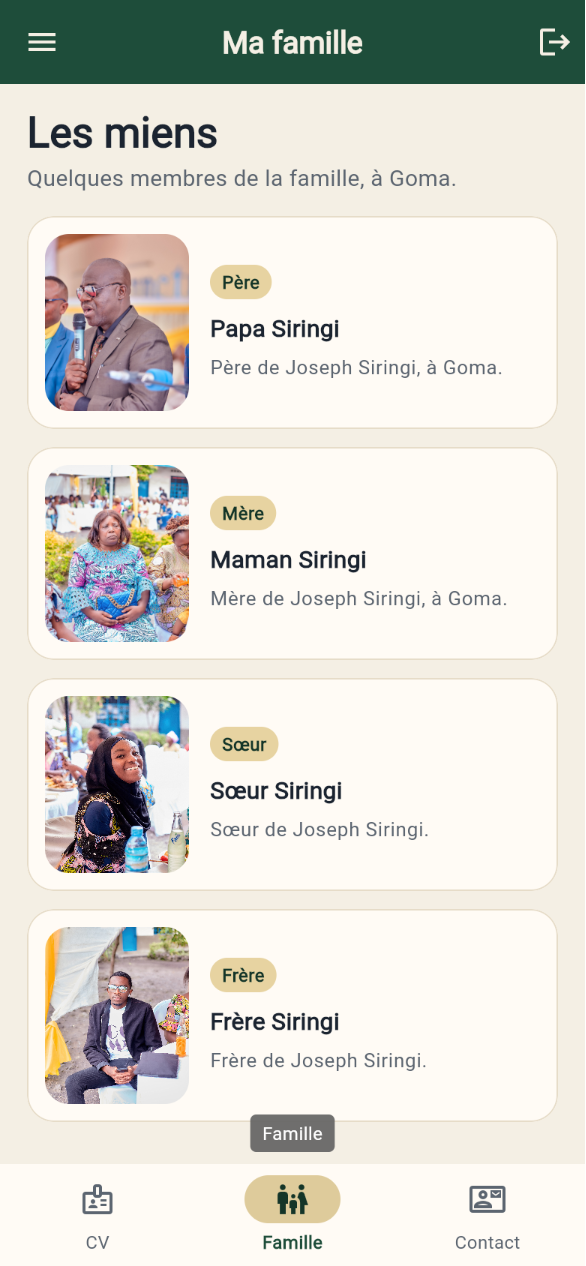
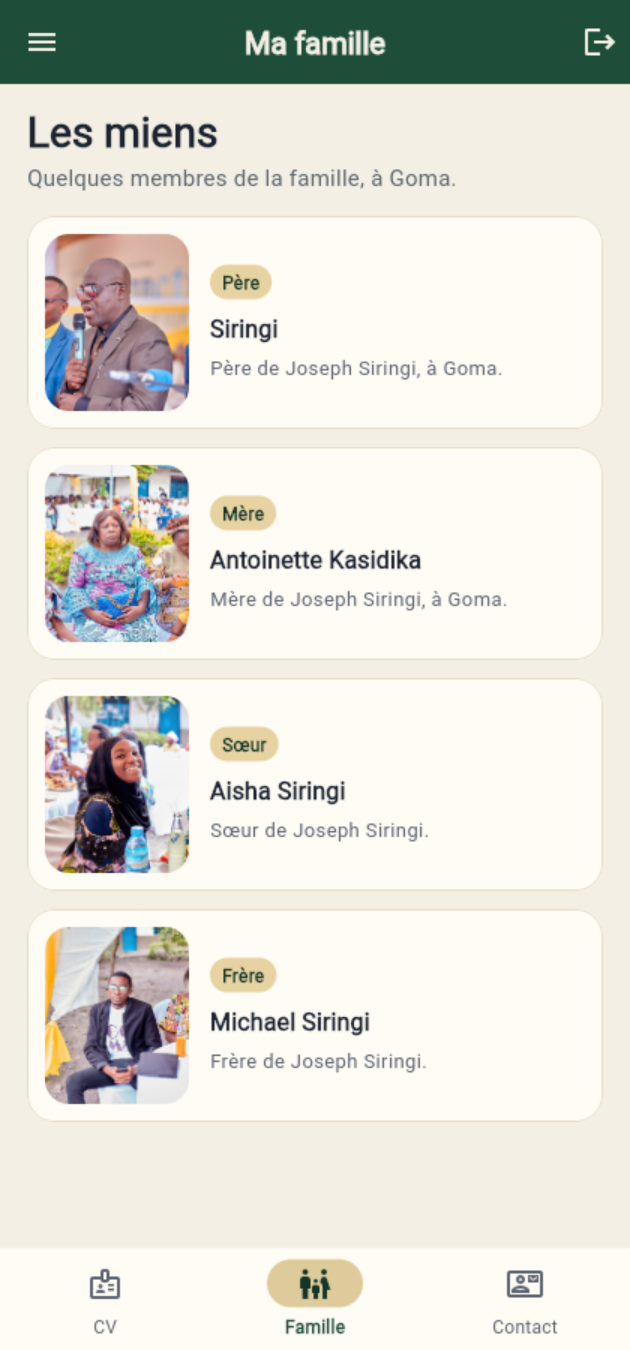
Nommer la famille et permettre le lancement sur téléphone Android.

diff --git a/lib/data/profile_data.dart b/lib/data/profile_data.dart
@@ -89,26 +89,26 @@ class ProfileData {
 
   static const family = [
     FamilyMember(
-      name: 'Papa Siringi',
+      name: 'Siringi',
       relation: 'Père',
       note: 'Père de Joseph Siringi, à Goma.',
       photo: 'assets/images/pere.jpg',
     ),
     FamilyMember(
-      name: 'Maman Siringi',
+      name: 'Antoinette Kasidika',
       relation: 'Mère',
       note: 'Mère de Joseph Siringi, à Goma.',
       photo: 'assets/images/mere.jpg',
       alignment: Alignment(-0.78, 0),
     ),
     FamilyMember(
-      name: 'Sœur Siringi',
+      name: 'Aisha Siringi',
       relation: 'Sœur',
       note: 'Sœur de Joseph Siringi.',
       photo: 'assets/images/soeur.jpg',
     ),
     FamilyMember(
-      name: 'Frère Siringi',
+      name: 'Michael Siringi',
       relation: 'Frère',
       note: 'Frère de Joseph Siringi.',
       photo: 'assets/images/frere.jpg',

diff --git a/test/widget_test.dart b/test/widget_test.dart
@@ -47,8 +47,13 @@ void main() {
       ),
     );
     await tester.pumpAndSettle();
-    expect(find.text('Papa Siringi'), findsOneWidget);
+    expect(find.text('Siringi'), findsOneWidget);
     expect(find.text('Père'), findsOneWidget);
+    expect(find.text('Antoinette Kasidika'), findsOneWidget);
+    await tester.scrollUntilVisible(find.text('Aisha Siringi'), 200);
+    expect(find.text('Aisha Siringi'), findsOneWidget);
+    await tester.scrollUntilVisible(find.text('Michael Siringi'), 200);
+    expect(find.text('Michael Siringi'), findsOneWidget);
 
     await tester.tap(
       find.descendant(
@@ -58,6 +63,7 @@ void main() {
     );
     await tester.pumpAndSettle();
     expect(find.text('josingka@gmail.com'), findsOneWidget);
+    await tester.scrollUntilVisible(find.text('GitHub'), 200);
     expect(find.text('GitHub'), findsOneWidget);
   });
 }

diff --git a/lib/main.dart b/lib/main.dart
@@ -19,6 +19,25 @@ class CvApp extends StatelessWidget {
       debugShowCheckedModeBanner: false,
       title: 'CV Joseph Siringi',
       theme: buildAppTheme(),
+      builder: (context, child) {
+        return LayoutBuilder(
+          builder: (context, constraints) {
+            if (constraints.maxWidth <= 520) {
+              return child ?? const SizedBox.shrink();
+            }
+            return ColoredBox(
+              color: AppColors.ink,
+              child: Center(
+                child: SizedBox(
+                  width: 420,
+                  height: constraints.maxHeight,
+                  child: child,
+                ),
+              ),
+            );
+          },
+        );
+      },
       home: const LoginPage(),
     );
   }
